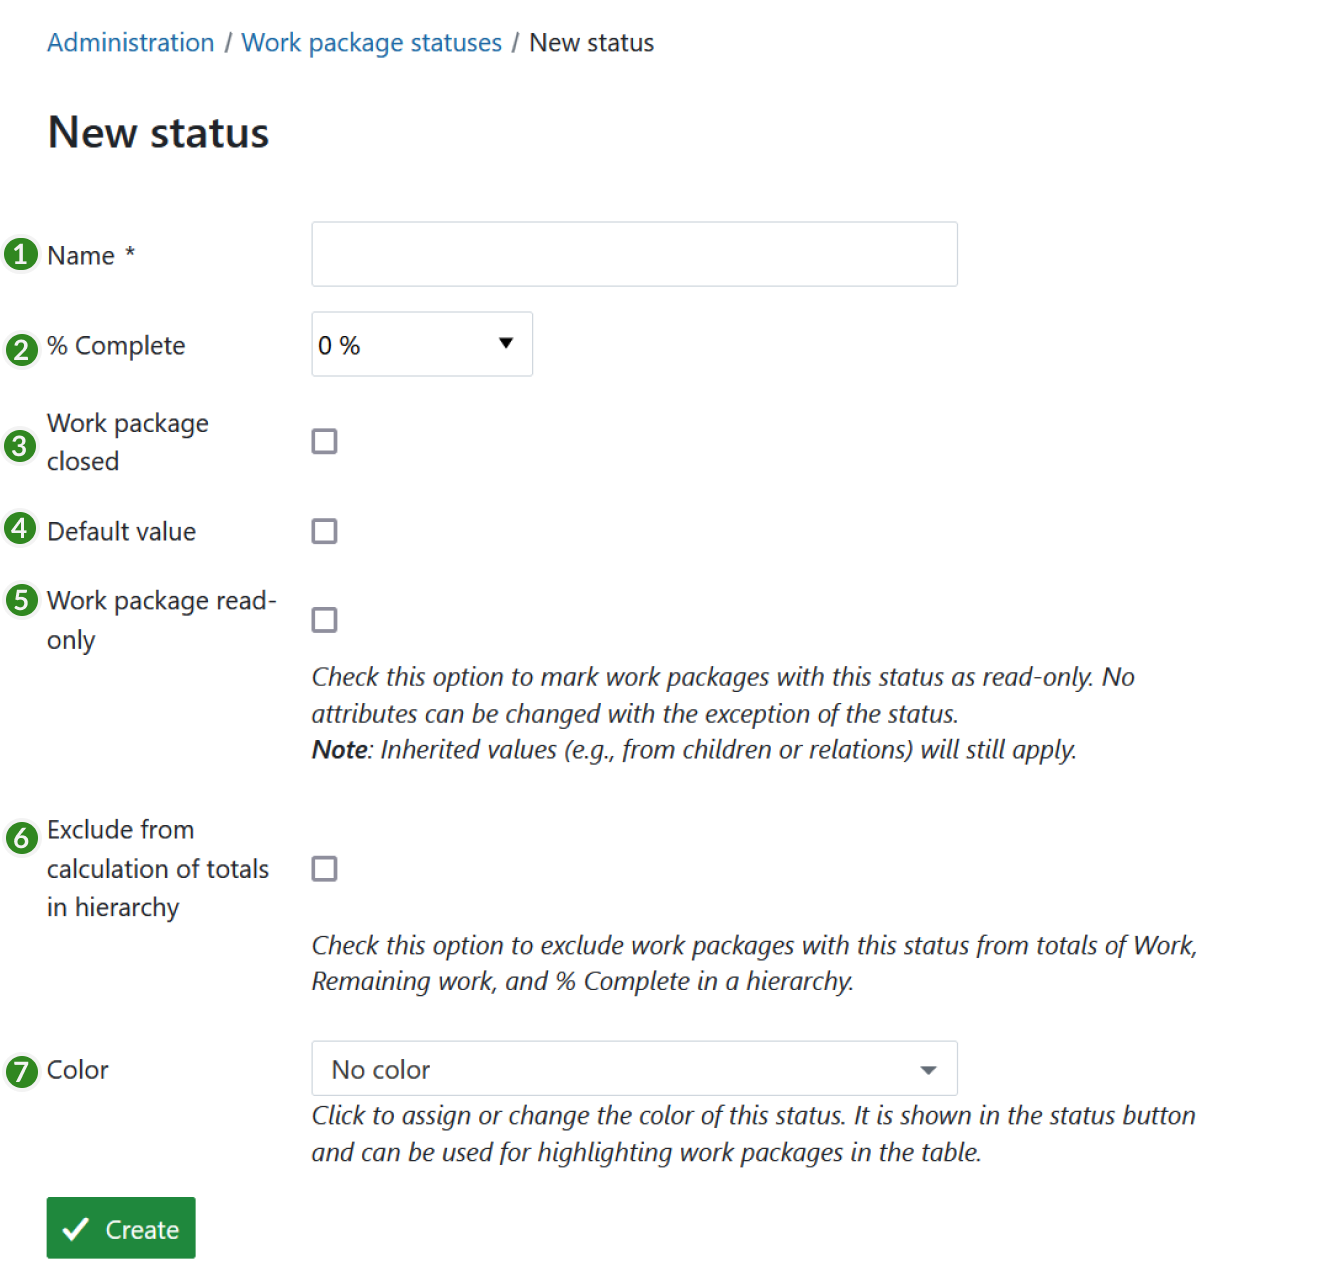
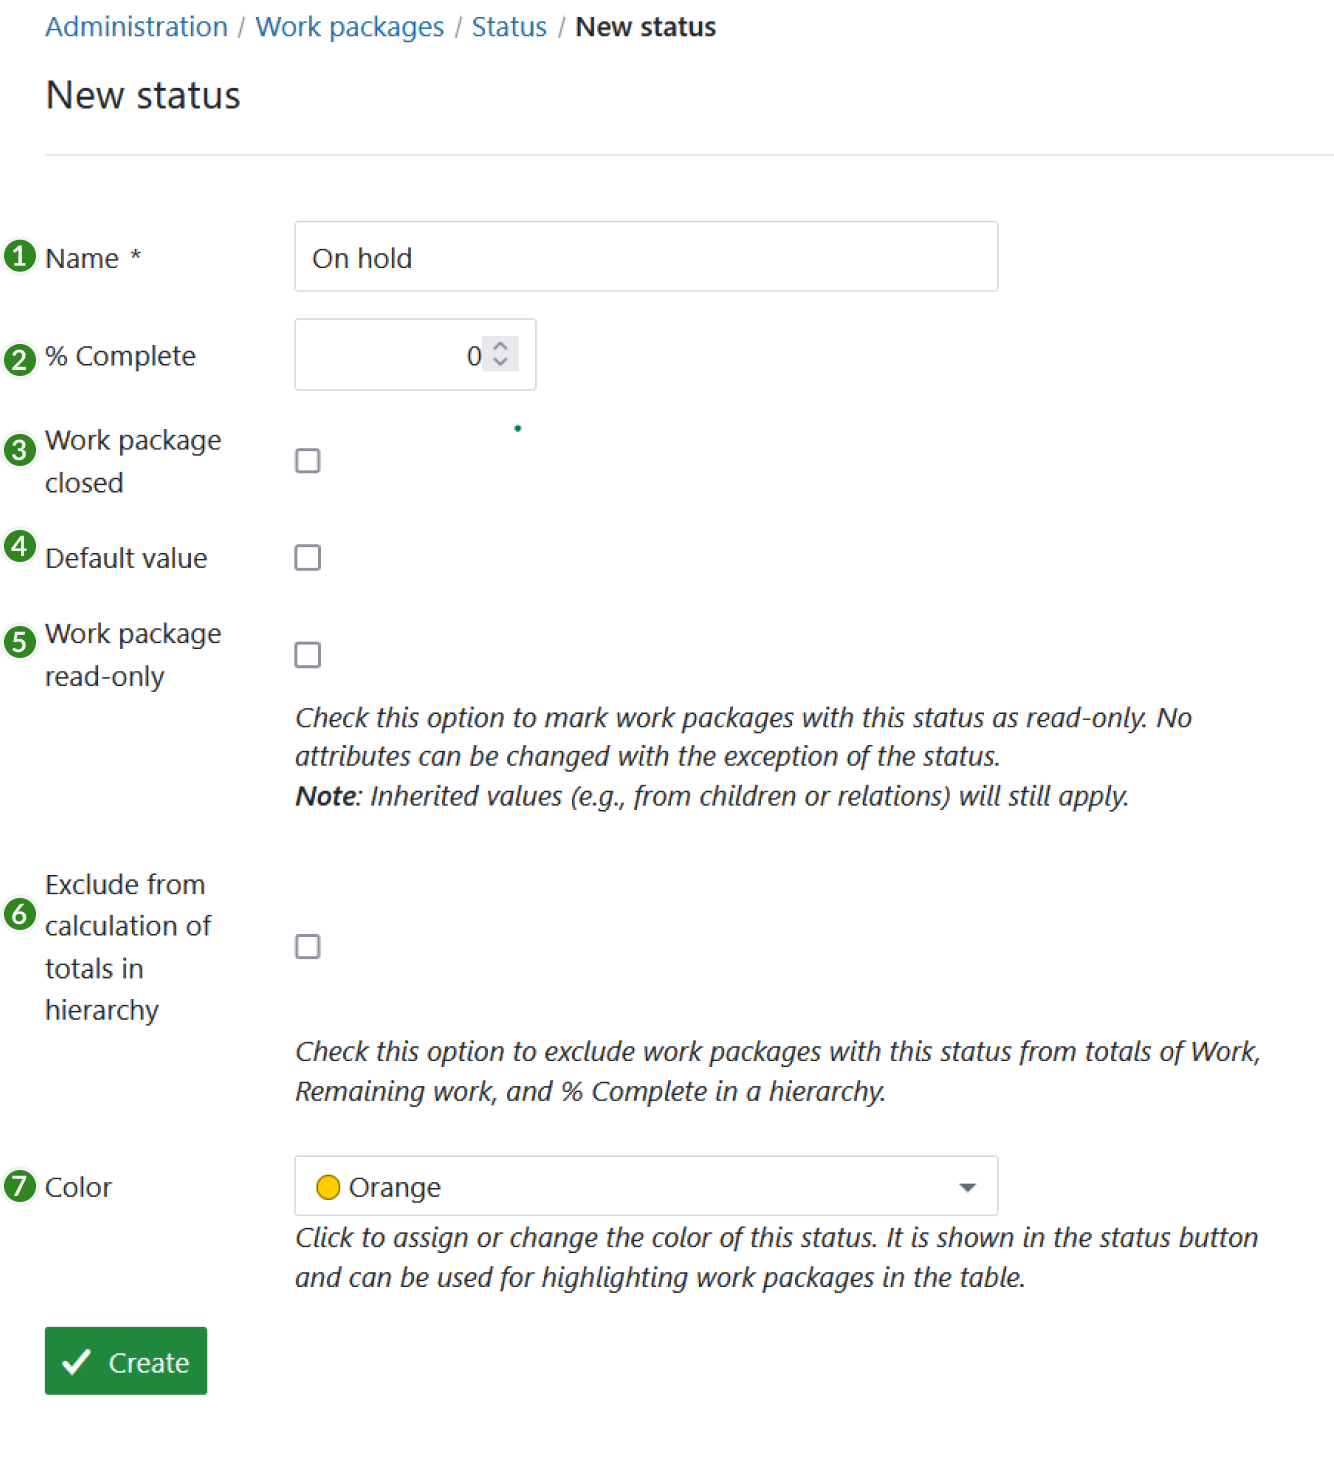
[#56633] 14.4 Documentation: Allow users to freely input % complete values for statuses  https://community.openproject.org/work_packages/56633

diff --git a/docs/system-admin-guide/manage-work-packages/work-package-status/README.md b/docs/system-admin-guide/manage-work-packages/work-package-status/README.md
@@ -12,24 +12,42 @@ Work packages can have various status depending on their types, e.g. tasks can h
 
 The status can be set at the top of the work package details view or in the table view in the corresponding column.
 
-![Work packages status dropdown menu in OpenProject](openproject_system_guide_create_wp_stati_dropdown.png)The status field can be configured under *Administration ->* *Work packages* -> *Status*. You will see the list of all the existing work package status in the system. You can add new status or change the name and order of existing status.
+![Work packages status dropdown menu in OpenProject](openproject_system_guide_create_wp_stati_dropdown.png)
+
+The status field can be configured under *Administration ->* *Work packages* -> *Status*. You will see the list of all the existing work package stati in the system. You can add new status or change the name and order of existing status.
+
+![Work package status overview in OpenProject administration](openproject_system_guide_create_wp_status_overview.png)
+
 To learn about the options for configuring the transition from one status to another navigate to [Manage work package workflows](../work-package-workflows).
 
 ## Create a new work package status
 
 To create a new work package status click the green ***+ Status*** icon.
 
+
 A new window will open, where you will be able to specify the following:
 
 1. Name the new work package status.
+
 2. The %&nbsp;Complete value in [Status-based progress calculation mode](../work-package-settings/).
+
+   > [!TIP]
+   >
+   > The value for % Complete can be set from 1 to 100. 
+   >
+   > A decimal value will be truncated, i.e. if you input 5.7, the value set will be 5.
+
 3. Define if the new work package status closes a work package (e.g. relevant when filtering for closed for packages), e.g. a work package status "rejected" will set a work package technically on closed and it will not appear in the default work package table with Open Work packages.
+
 4. Define if this status is set as default value when creating new work packages. BEWARE: If you decide to set the new status as default it will impact all work packages, existing and future ones. See more below.
+
 5. Check if this status sets a **work package in read-only mode**. This means no work package attributes can be changed except the status.
+
 6. Check **Exclude from calculation of totals in hierarchy** if you want work packages with this status to *not* be included in the calculation of totals in a hierarchy. This is useful for statuses like *rejected*.
+
 7. Set a **color** for the work package status. The color appears in the status button of the work packages or in the work package table.
 
-  Save the new status by clicking **Create**.
+Save the new status by clicking **Create**.
 
 ![Create a new work package status in OpenProject administration](openproject_system_guide_create_new_wp_status.png)
 
@@ -49,4 +67,5 @@ When you decide to set the new status as default status please note the followin
 
 ![Edit work package status in OpenProject administration](openproject_system_guide_edit_new_wp_status.png)
 
-> **Note**: A new status needs to be activated in the [work package workflows](../work-package-workflows) in order to appear in the status drop down of a work package.
+> [!NOTE]
+> A new status needs to be activated in the [work package workflows](../work-package-workflows) in order to appear in the status drop down of a work package.
